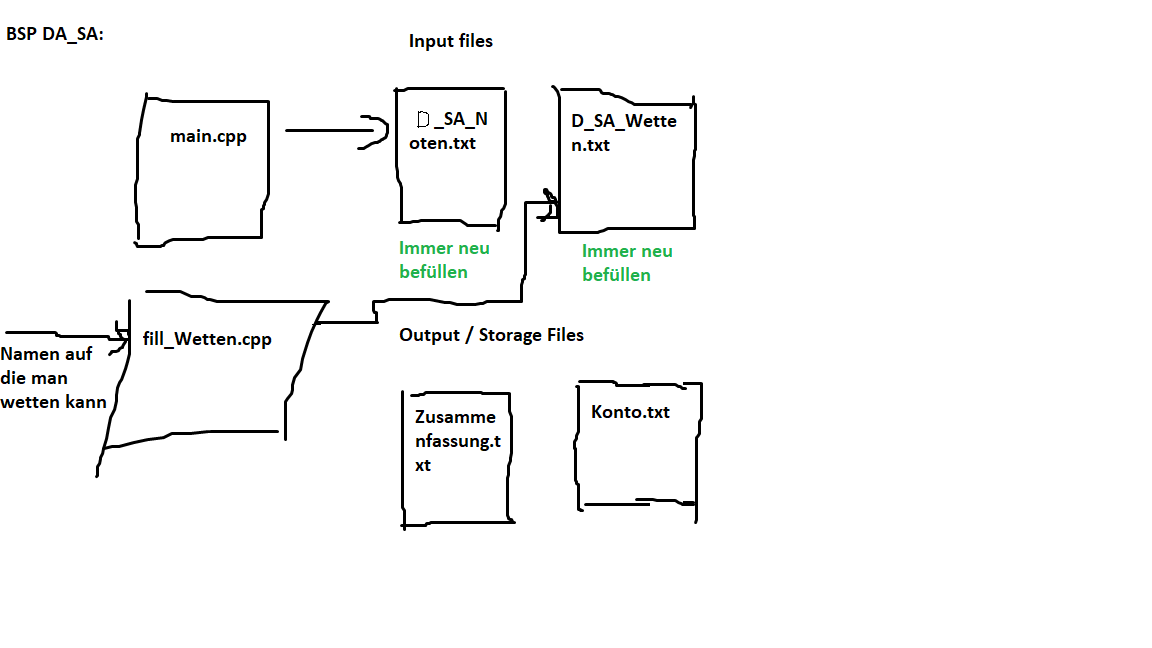
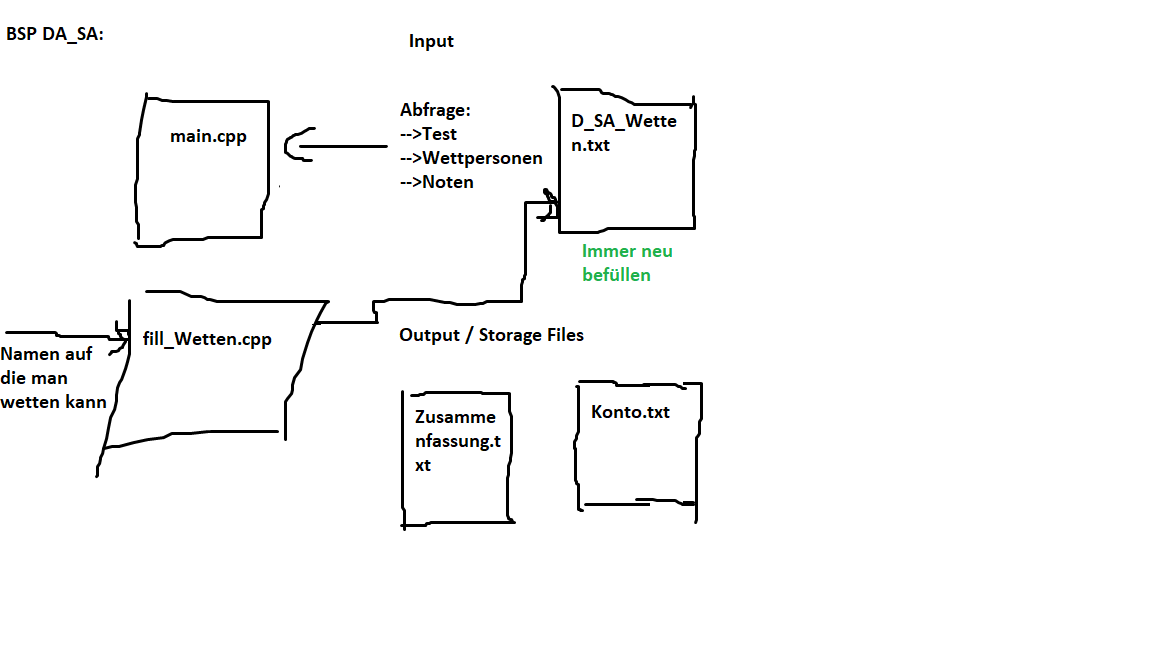
Grobe Planung der CPP Programme

Changed region(s): [[0.25, 0.1235, 0.4688, 0.4321], [0.4062, 0.0617, 0.4375, 0.0926]]

diff --git a/main.cpp b/main.cpp
@@ -9,47 +9,71 @@ using namespace std;
 
 int main()
 {
-    //declare variables
+    // declare variables
     const int SIZE = 500;
-    char list_noten[SIZE];                 //array for the noten file
-    char list_wetten[SIZE];                //array for the wetten file
-    string filename_noten = "Noten.txt";   //noten filename
-    string filename_wetten = "Wetten.txt"; //wetten filename
-    ifstream file_noten;                   //storage for file_noten
-    ifstream file_wetten;                  //storage for file_wetten
+    char list_noten[SIZE];                 // array for the noten file
+    char list_wetten[SIZE];                // array for the wetten file
+    string filename_noten = "Noten.txt";   // noten filename
+    string filename_wetten = "Wetten.txt"; // wetten filename
+    ifstream file_noten;                   // storage for file_noten
+    ifstream file_wetten;                  // storage for file_wetten
 
     /////////////// read the noten file //////////////////
-    file_noten.open(filename_noten.c_str()); //open input file
-    if (file_noten.is_open())                //if the input file is open
+    file_noten.open(filename_noten.c_str()); // open input file
+    if (file_noten.is_open())                // if the input file is open
     {
-        while (!file_noten.eof()) //eof = end of file
+        while (!file_noten.eof()) // eof = end of file
         {
-            file_noten >> list_noten;              //write the file in the array
-            char *namen = strtok(list_noten, ":"); //split at : -> print names
-            char *noten = strtok(NULL, "\n");      //split at \n -> print noten
+            file_noten >> list_noten;              // write the file in the array
+            char *namen = strtok(list_noten, ":"); // split at : -> print names
+            char *noten = strtok(NULL, "\n");      // split at \n -> print noten
             cout << "Noten: " << noten << endl;
         }
     }
-    else //Error message
+    else // Error message
         cerr
             << "Can't find noten file " << filename_noten << endl;
     file_noten.close(); // Close input file
 
     /////////////// read the wetten file //////////////////
-    file_wetten.open(filename_wetten.c_str()); //open input file
-    if (file_wetten.is_open())                 //if the input file is open
+    file_wetten.open(filename_wetten.c_str()); // open input file
+    if (file_wetten.is_open())                 // if the input file is open
     {
-        while (!file_wetten.eof()) //eof = end of file
+        while (!file_wetten.eof()) // eof = end of file
         {
-            file_wetten >> list_wetten;             //write the file in the array
-            char *namen = strtok(list_wetten, ":"); //split at : -> print names
-            char *wetten = strtok(NULL, ",");       //split at , -> print noten
-            char *einsatz = strtok(NULL, "\n");     //split at \n -> print einsatz
+            file_wetten >> list_wetten;             // write the file in the array
+            char *namen = strtok(list_wetten, ":"); // split at : -> print names
+            char *wetten = strtok(NULL, ",");       // split at , -> print noten
+            char *einsatz = strtok(NULL, "\n");     // split at \n -> print einsatz
             cout << "Einsatz: " << einsatz << endl;
         }
     }
-    else //Error message
+    else // Error message
         cerr
             << "Can't find wetten file " << filename_wetten << endl;
     file_wetten.close(); // Close input file
+
+    //***********************************Hipf Plan*******************************
+
+    // Abfrage User: Name des Tests, Anzahl Wettpersonen, Namen der Wettpersonen, Note der Wettperson (Eingabe muss abgesichert werden, DAU sicher)
+
+    // Backup accounts.txt before doing anything
+
+    // open bets.txt
+    // for x Wettpersonen
+    // Methode die bets.txt ausließt, return string Wettperson, schreibt auf Array die Beträge (quasi zweiter return)
+
+    // Auswertung der Daten:
+    // Methode die Gesamtbetrag auf jede Note berechnet
+    // Methode die Anzahl der Wetten auf jede Note berechnet -->Nur für Zusammenfassung
+    // Gesamtwetteinsatz auf eine Wettperson -->Nur für Zusammenfassung
+
+    // Berechnung des Arrays[23] mit Gewinn und Verlust
+
+    // Methode die Kontostand aktualisiert, Input array[23] mit Gewinn und Verlust, no return:
+    // open accounts.txt
+    // Inhalt einlesen
+    // Nach \n aufsplitten, wenn im Array wo != 0 dann Zeile aktualisieren (Alter Wert + Gewinn/Verlust)
+
+    // Methode die Zusammenfassung erzeugt
 }

diff --git a/fill_bets.cpp b/fill_bets.cpp
@@ -1,1 +1,34 @@
-// TODO
+#include <fstream>
+#include <string>
+#include <cstring>
+
+using namespace std;
+
+int main()
+{
+
+    const int SIZE = 500;
+    char input[SIZE];                      // Input for reading in lines of txt files
+    string filename_grades = "grades.txt"; // noten filename
+    string filename_bets = "bets.txt";     // wetten filename
+    ifstream file_bets;                    // storage for file_noten
+    ifstream file_grades;                  // storage for file_wetten
+
+    // Einlesen "Name Test"
+
+    // if "Name Test"_bets.txt ist nicht da
+    // bool exist = false;
+    // Anzahl Wettpersonen (wegen Arraylänge) und Wettpersonen einlesen -->in Array speichern
+
+    // Name des Wetters und Betrag einlesen
+
+    // if exist is true
+    //"Name Test"_bets.txt einlesen
+    // Betrag beim Index des Namens ändern
+    // Datei wieder rausschreiben
+
+    // if exist is false
+    // String erstellen und mit Wettpersonenarray sowie Nullern an den richtigen Stellen, füllen
+    // Betrag beim Index des Namens ändern
+    // Als Datei rausschreiben
+}
